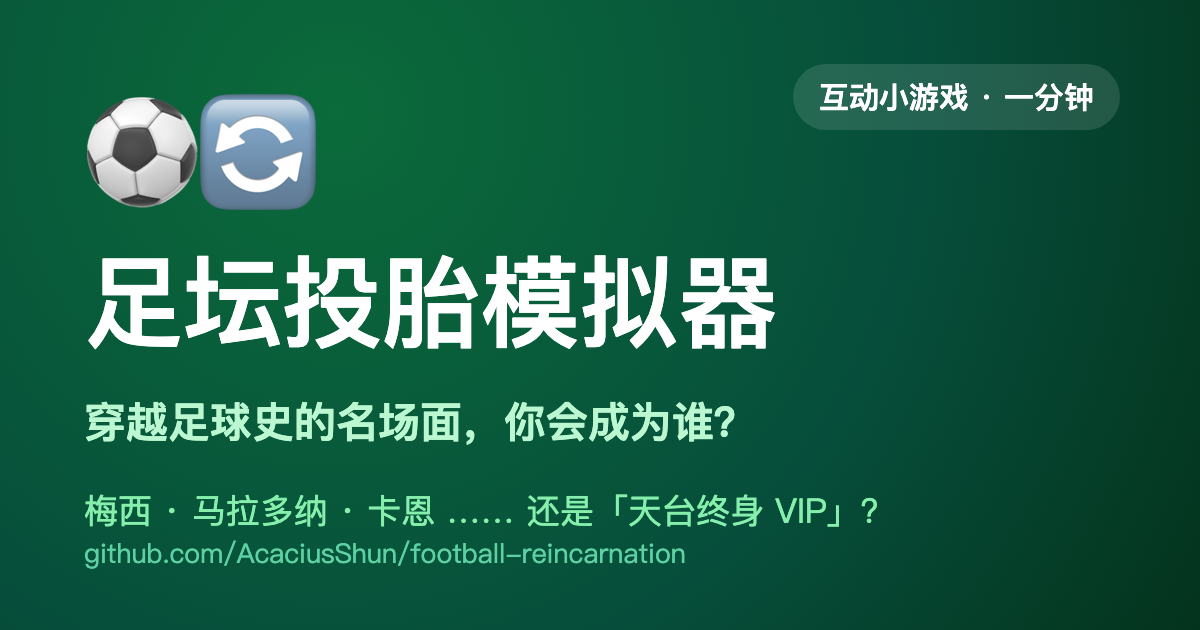
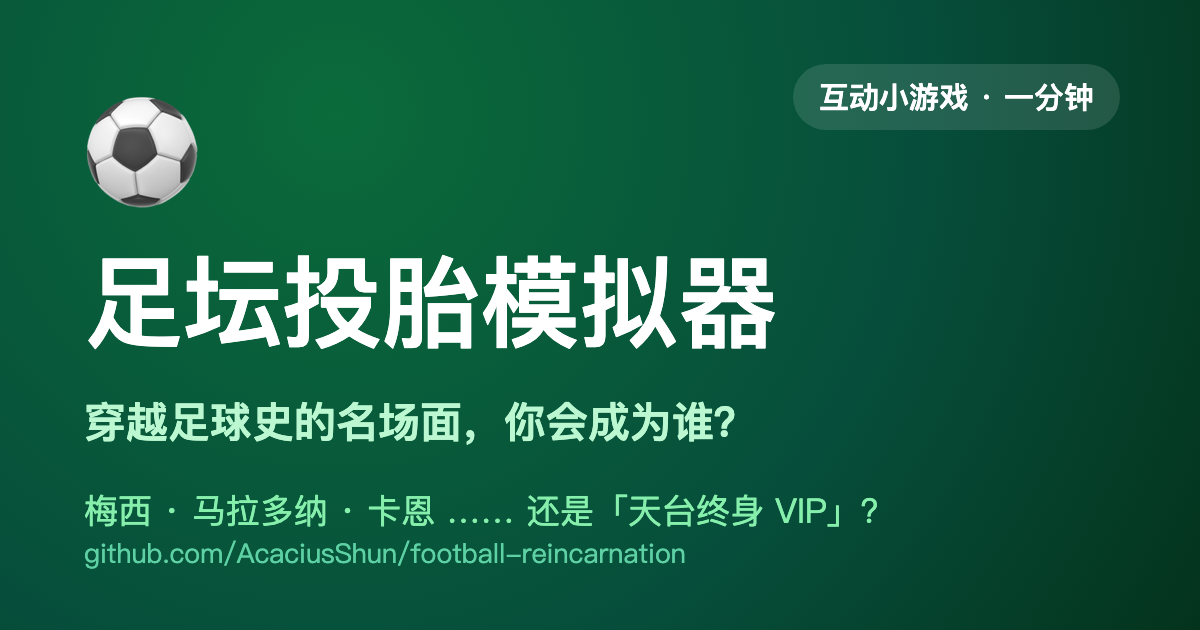
Drop 🔄 from the wordmark; add a title-screen hook
The 🔄 glyph read as a refresh/reload icon — removed it from the header, title, share text, README and OG image, keeping ⚽ (the 投胎 idea is already in the name). Added a one-line hook on the title screen (⏱ 一分钟…). Regenerated public/og.png.

Changed region(s): [[0.1542, 0.1508, 0.2775, 0.3317]]

diff --git a/src/components/Title.tsx b/src/components/Title.tsx
@@ -3,8 +3,8 @@ import { useI18n } from '../i18n'
 export default function Title({ onStart }: { onStart: () => void }) {
   const { t } = useI18n()
   return (
-    <section className="mx-auto max-w-xl px-6 py-16 text-center">
-      <div className="mb-4 text-6xl">⚽🔄</div>
+    <section className="mx-auto max-w-2xl px-6 py-16 text-center">
+      <div className="mb-4 text-6xl">⚽</div>
       <h1 className="text-4xl font-extrabold tracking-tight text-pitch-dark sm:text-5xl">{t('appName')}</h1>
       <p className="mt-3 text-lg font-medium text-neutral-700">{t('tagline')}</p>
       <p className="mt-4 text-neutral-500">{t('intro')}</p>
@@ -14,6 +14,7 @@ export default function Title({ onStart }: { onStart: () => void }) {
       >
         {t('start')}
       </button>
+      <p className="mt-4 text-sm text-neutral-400">{t('hook')}</p>
     </section>
   )
 }

diff --git a/src/components/Result.tsx b/src/components/Result.tsx
@@ -56,8 +56,8 @@ export default function Result({ outcome, moments, flops, onRestart }: Props) {
   const shareUrl = `${window.location.origin}${window.location.pathname}#${encodeOutcome(outcome)}`
   const shareText =
     locale === 'zh'
-      ? `我投胎成了「${name}」！来足坛投胎模拟器看你会成为谁 ⚽🔄 #足坛投胎模拟器`
-      : `I was reborn as ${name}! Find out who you'd become ⚽🔄 #FootballReincarnation`
+      ? `我投胎成了「${name}」！来足坛投胎模拟器看你会成为谁 ⚽ #足坛投胎模拟器`
+      : `I was reborn as ${name}! Find out who you'd become ⚽ #FootballReincarnation`
 
   return (
     <section className="mx-auto max-w-xl px-6 py-12 text-center">

diff --git a/src/App.tsx b/src/App.tsx
@@ -59,7 +59,7 @@ function Shell() {
       <header className="bg-pitch text-white">
         <div className="mx-auto flex max-w-xl items-center justify-between px-5 py-3">
           <button onClick={restart} className="text-lg font-extrabold tracking-tight">
-            ⚽🔄 {t('appName')}
+            ⚽ {t('appName')}
           </button>
           <div className="flex items-center gap-3">
             <a

diff --git a/README.md b/README.md
@@ -1,4 +1,4 @@
-# ⚽🔄 Football Reincarnation · 足坛投胎模拟器
+# ⚽ Football Reincarnation · 足坛投胎模拟器
 
 > **▶ 在线试玩 · Play it → https://acaciusshun.github.io/football-reincarnation/**
 
